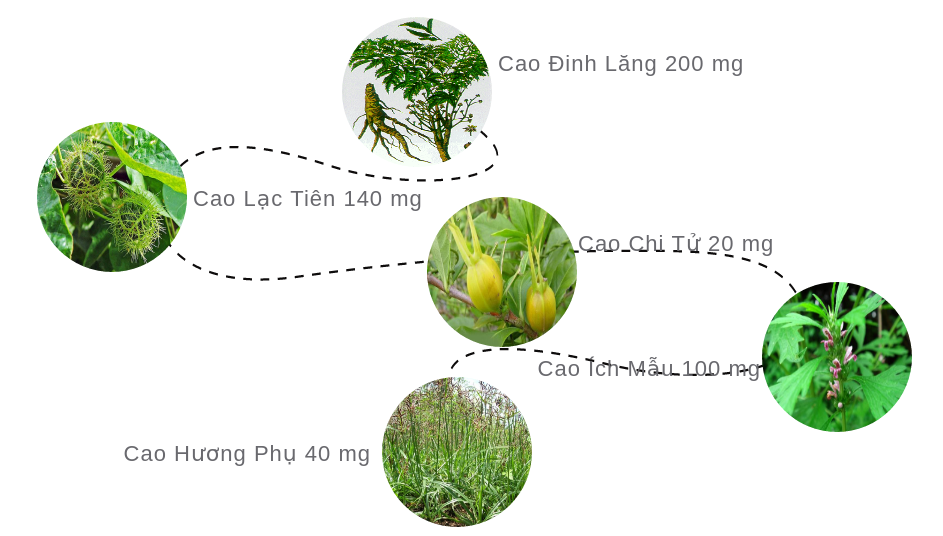
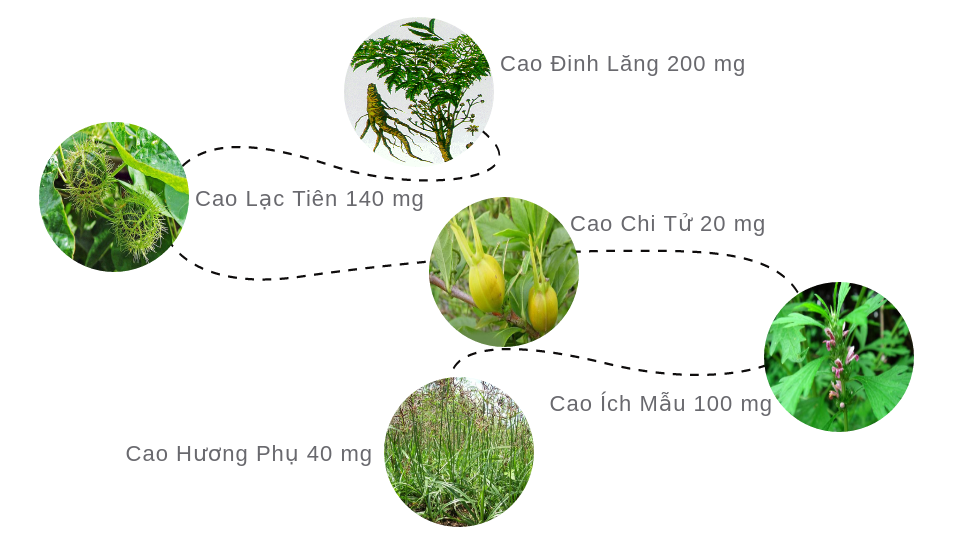
The first

diff --git a/css/style.css b/css/style.css
@@ -67,9 +67,9 @@
 }
 .qttext1 { width:300px; font-size:12px; position:absolute; margin-top:-450px; margin-left:600px;}
 .qttext2 { width:300px; font-size:12px; position:absolute; margin-top:-315px; margin-left:295px;}
-.qttext3 { width:300px; font-size:12px; position:absolute; margin-top:-145px; margin-left:570px; text-align:right}
+.qttext3 { width:300px; font-size:12px; position:absolute; margin-top:-110px; margin-left:580px; text-align:right}
 .qttext4 { width:300px; font-size:12px; position:absolute; margin-top:-60px; margin-left:180px; text-align:right}
-.qttext5 { position:absolute; margin-top:-270px; margin-left:680px;  width:300px; font-size:12px;}
+.qttext5 { position:absolute; margin-top:-290px; margin-left:670px;  width:300px; font-size:12px;}
 
 .getleads {
   }

diff --git a/index.php b/index.php
@@ -71,7 +71,7 @@ if(isset($_POST['name'])) {
 <head>
 	<meta http-equiv="content-type" content="text/html; charset=utf-8"/>
 	<meta name="viewport" content="width=device-width, initial-scale=1, user-scalable=no"/>
-
+	<title>An Giấc Nữ</title>
 	<link rel="stylesheet" href="css/bootstrap.min.css">
 	<link rel="stylesheet" href="css/animate.css">
 	<link rel="stylesheet" href="css/style.css">
@@ -125,9 +125,9 @@ if(isset($_POST['name'])) {
 		<div class="container vertical-center-rel">
 			<div class="row">
 				<div style="text-align:center;">
-					<h1 style="color:#003300; font-size:60px; padding-bottom:0; margin:0;text-transform:uppercase">AN GIẤC NỮ</h1>
-					<p style="color:#003300; font-size:30px; margin:0; padding:0;text-transform:uppercase">"QUẲNG MỌI LO ÂU, TRÒN SÂU GIẤC NGỦ"</p>
-					<p style="color:#df0d3f; font-size:30px; font-weight:bold; margin:0; padding:0;text-transform:uppercase">TƯ VẤN MIỄN PHÍ: 1800 6684</p>
+					<h1 style="color:#003300; font-size:45px; padding-bottom:0; margin:0;text-transform:uppercase">AN GIẤC NỮ</h1>
+					<p style="color:#003300; font-size:25px; margin:0; padding:0;text-transform:uppercase">"QUẲNG MỌI LO ÂU, TRÒN SÂU GIẤC NGỦ"</p>
+					<p style="color:#df0d3f; font-size:25px; font-weight:bold; margin:0; padding:0;text-transform:uppercase">TƯ VẤN MIỄN PHÍ: 1800 6684</p>
 				</div>
 			</div>
 		</div>
@@ -227,8 +227,8 @@ if(isset($_POST['name'])) {
 								<p>Sau một thời gian sử dụng An Giấc Nữ, giấc ngủ đã quay trở lại với tôi thật dễ dàng. Dù không ngủ được 7-8 tiếng nhưng tôi vẫn cảm thấy thật tỉnh táo và sảng khoái mỗi khi thức dậy.
 								</p>
 								<div class="info">
-									<span>Nguyễn Thu Yến</span>
-									<p>Nhân viên văn phòng</p>
+									<span>Đặng Thanh Xuân</span>
+									<p>Nhân viên kế toán</p>
 								</div>
 							</li>
 							<li>
@@ -236,8 +236,8 @@ if(isset($_POST['name'])) {
 								<p>Tôi rất yên tâm khi sử dụng An Giấc Nữ vì thành phần của thuốc đều là những thảo dược mà mình biết. Sử dụng một thời gian tôi thấy thật bất ngờ khi kết hợp các loại thảo dược lại có thể tạo ra được 1 bài thuốc chữa trị mất ngủ hiệu quả đến như thế.
 								</p>
 								<div class="info">
-									<span>Trần Hoa</span>
-									<p>Nhân viên kinh doanh</p>
+									<span>Ngô Thị Nga</span>
+									<p>Hải Dương</p>
 								</div>
 							</li>
 							<li>
@@ -245,8 +245,8 @@ if(isset($_POST['name'])) {
 								<p>An Giấc Nữ đúng là bài thuốc mà tôi tìm kiếm bấy lâu nay. Tôi ngủ được sâu giấc hơn, không còn chập chờn, mộng mị và cả ngày luôn thấy khỏe khoắn, tràn đầy năng lượng.
 								</p>
 								<div class="info">
-									<span>Lê Mỹ Linh</span>
-									<p>Trợ lý giám đốc</p>
+									<span>Vũ Thị Cậy</span>
+									<p>Hoàng Mai - Hà Nội</p>
 								</div>
 							</li>
 							<li>
@@ -254,8 +254,8 @@ if(isset($_POST['name'])) {
 								<p>An Giấc Nữ như mang lại cho tôi một cuộc sống mới vậy. Tôi không còn bị mất ngủ nữa, không còn bị các cơn đau đầu do mất ngủ hành hạ. Cảm ơn An Giấc Nữ.
 								</p>
 								<div class="info">
-									<span>Ngô Mỹ Hân</span>
-									<p>Nhân viên CSKH</p>
+									<span>Nguyễn Thị Xuân</span>
+									<p>Hà Nội</p>
 								</div>
 							</li>
 							<li>
@@ -263,8 +263,8 @@ if(isset($_POST['name'])) {
 								<p>Trước đây, khi chưa sử dụng An Giấc Nữ, tôi rất khó khăn trong việc ngủ lại khi bị thức dậy giữa đêm, bây giờ thì điều đó không còn là vấn đề nữa, tôi có giấc ngủ lại thật dễ dàng.
 								</p>
 								<div class="info">
-									<span>Phạm Bích Ngọc</span>
-									<p>Huấn luyện viên</p>
+									<span>Chu Thị Thanh</span>
+									<p>Vinahankook Medical Supplies Co., JSC</p>
 								</div>
 							</li>
 						</ul>
@@ -304,7 +304,7 @@ if(isset($_POST['name'])) {
 			<div class="row">
 				<div class="col-md-8 col-md-offset-2">
 					<div class="text-center wow fadeIn" style="visibility: visible; animation: fadeIn;">
-						<h2 data-selector="text1" style="color:#d14cb8; text-transform:uppercase; font-size:28px;">quy trình làm ra sản phẩm</h2>
+						<h2 data-selector="text1" style="color:#d14cb8; text-transform:uppercase; font-size:28px;">Thành phần sản phẩm</h2>
 						<p class="lead" data-selector="text2" style="color:#333333;font-size:18px;margin-bottom:10px;">
 							Sản phẩm được bào chế theo <strong>công thức đặc biệt</strong> bằng công nghệ hiện đại chiết xuất những gì tinh
 							<strong>túy nhất của dược liệu</strong> và cô đặc bên trong một viên nén đặc biệt có cấu tạo <strong>không bọc màng film

diff --git a/thank.php b/thank.php
@@ -7,15 +7,14 @@
 <head>
     <meta charset="utf-8">
     <meta name="viewport" content="width=device-width, height=device-height, initial-scale=1.0, user-scalable=no, maximum-scale=1.0">
-    <title>NANO CURCUMIN CHIẾT XUẤT 100% TỪ NGHỆ TỰ NHIÊN</title>
-    <meta content="CURCUMIN, CHIẾT XUẤT 100% TỪ NGHỆ TỰ NHIÊN" name="keywords">
-    <meta content="OIC NANO CURCUMIN là sản phẩm duy nhất của nano curcumin ở dạng chất lỏng, hòa tan 100% trong nước, không tạo cặn: khi các phân tử curcumin được chia tách thành các hạt nano có kích thước siêu nhỏ từ 40-60 nanomet, các hạt nano này luôn có xu hướng gắn kết lại với nhau tạo thành kích thước hạt to hơn, không còn dưới dạng NANO nữa. Chúng tôi đã nghiên cứu và có bằng phát minh sáng chế ra qui trinh điều chế vi nhũ tương nano curcumin" name="description">
+    <title>An Giấc Nữ</title>
     <link rel="SHORTCUT ICON" href="media/images/st.png" />
     <link href="https://fonts.googleapis.com/css?family=Open+Sans:300,400,600,700,800&subset=vietnamese" rel="stylesheet">
     <link rel="stylesheet" href="thank/css/bootstrap.css">
     <link rel="stylesheet" href="thank/css/font-awesome.css">
     <link rel="stylesheet" href="thank/css/main.css">
     <link rel="stylesheet" href="thank/css/responsive.css">
+
 </head>
 
 <body>
